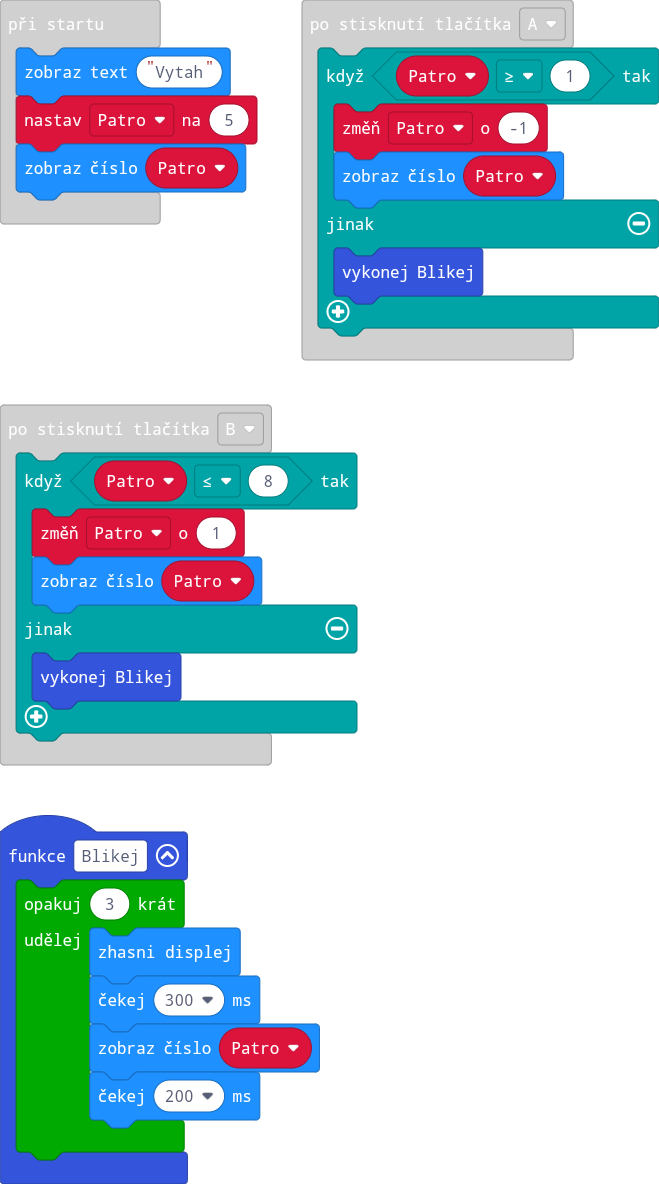
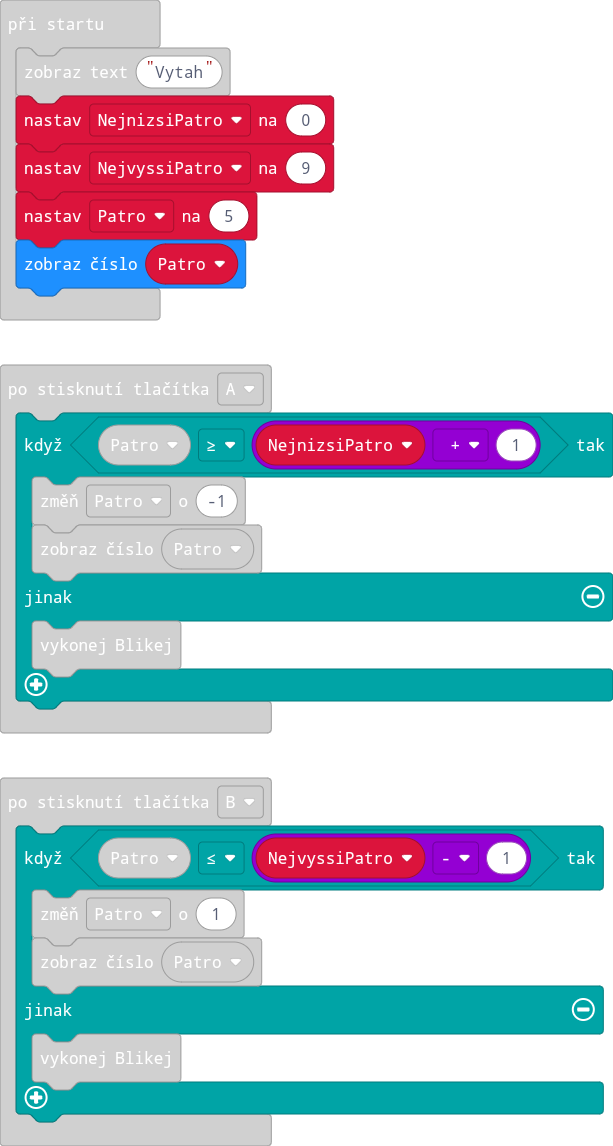
Aktualizovat pxt.json, main.blocks, main.ts

diff --git a/main.ts b/main.ts
@@ -1,5 +1,5 @@
 input.onButtonPressed(Button.A, function () {
-    if (Patro >= 1) {
+    if (Patro >= NejnizsiPatro + 1) {
         Patro += -1
         basic.showNumber(Patro)
     } else {
@@ -7,7 +7,7 @@ input.onButtonPressed(Button.A, function () {
     }
 })
 input.onButtonPressed(Button.B, function () {
-    if (Patro <= 8) {
+    if (Patro <= NejvyssiPatro - 1) {
         Patro += 1
         basic.showNumber(Patro)
     } else {
@@ -23,7 +23,11 @@ function Blikej () {
     }
 }
 let Patro = 0
+let NejvyssiPatro = 0
+let NejnizsiPatro = 0
 basic.showString("Vytah")
+NejnizsiPatro = 0
+NejvyssiPatro = 9
 Patro = 5
 basic.showNumber(Patro)
 basic.forever(function () {
